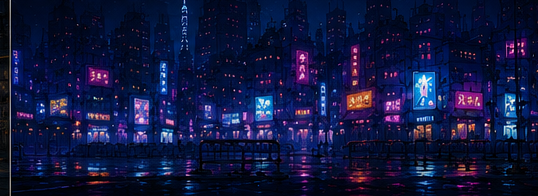
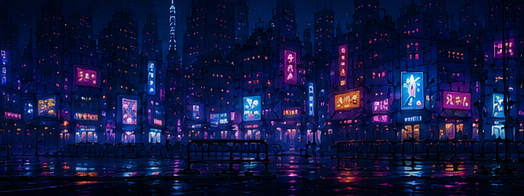
Fix stage2 bleed + clear-screen TITLE, deck links, Eita HP-cost skill
- Re-slice stage2_bg from x488 so stage 1's alley no longer bleeds into
  the left edge of the neon city.
- Stage-clear (won) screen now returns to the title on T / the TITLE
  button, and the banner shows the hint.
- Portrait deck shows the TIMECAFE YouTube channel and creator (X) links
  at the top, clear of the controls to avoid mis-taps.
- Eita's summon skill now costs 2 HP each use (and can't be used if it
  would drop him), since it was too strong; title note + HP feedback.

diff --git a/src/game/PlayScene.ts b/src/game/PlayScene.ts
@@ -163,9 +163,19 @@ export class PlayScene implements Scene {
     }
 
     // Bombs charge for BOMB_WINDUP (player rooted in a pose) before firing.
-    if (input.wasPressed("KeyK") && !this.bombWindup && this.player.consumeBomb()) {
-      this.bombWindup = { bomb: this.player.bomb, t: 0 };
-      this.player.chargeBomb(BOMB_WINDUP);
+    // Some skills (Eita's summon) also cost HP — and can't be used if that
+    // would drop the player, so at least 1 HP always remains.
+    if (input.wasPressed("KeyK") && !this.bombWindup) {
+      const hpCost = this.character.skillHpCost ?? 0;
+      if (this.player.hp > hpCost && this.player.consumeBomb()) {
+        this.bombWindup = { bomb: this.player.bomb, t: 0 };
+        this.player.chargeBomb(BOMB_WINDUP);
+        if (hpCost > 0) {
+          this.player.spendHp(hpCost);
+          this.particles.burst(this.player.center, "#fca5a5", 12, 220, { life: 0.4, size: 3 });
+          sound.playerHit();
+        }
+      }
     }
     if (this.bombWindup) {
       this.bombWindup.t += dt;
@@ -260,6 +270,8 @@ export class PlayScene implements Scene {
             this.characterId,
           ),
         );
+      } else if (input.wasPressed("KeyT")) {
+        game.changeScene(new TitleScene());
       }
       return;
     }
@@ -1149,7 +1161,7 @@ export class PlayScene implements Scene {
     if (this.state === "won") {
       title = "STAGE CLEAR!";
       color = "#4ade80";
-      sub = "次のステージへ: Space";
+      sub = "次へ: Space    T: タイトル";
     } else if (this.state === "complete") {
       title = "GAME COMPLETE!";
       color = "#fbbf24";

diff --git a/src/style.css b/src/style.css
@@ -242,7 +242,36 @@ body.touch.portrait .tc-menu {
   transform: translateX(-50%);
 }
 
-/* Keep the credit link in the gap between screen and deck. */
+/* Channel + creator links live at the TOP of the deck (just under the
+   screen), well clear of the controls at the bottom to avoid mis-taps. */
+.deck-links {
+  display: none;
+}
+body.portrait .deck-links {
+  display: flex;
+  flex-direction: column;
+  align-items: center;
+  gap: 6px;
+  padding-top: 10px;
+}
+body.portrait .deck-links a {
+  color: #93c5fd;
+  font: 12px system-ui, sans-serif;
+  text-decoration: none;
+  background: rgba(2, 6, 23, 0.55);
+  border: 1px solid rgba(148, 163, 184, 0.18);
+  padding: 5px 14px;
+  border-radius: 9px;
+  max-width: 92vw;
+  white-space: nowrap;
+  overflow: hidden;
+  text-overflow: ellipsis;
+}
+body.portrait .deck-links a:active {
+  color: #bfdbfe;
+}
+
+/* The song-MV credit (title only) tucks just below those links. */
 body.portrait #mv-link {
-  bottom: calc(var(--deck-h) + 8px);
+  bottom: calc(var(--deck-h) - 78px);
 }

diff --git a/src/game/characters.ts b/src/game/characters.ts
@@ -41,6 +41,7 @@ export interface Character {
   normal: WeaponSpec; // main attack (button J), infinite
   special: WeaponSpec; // pickup weapon (W box), limited ammo
   bomb: Bomb; // button K
+  skillHpCost?: number; // HP spent each time the skill (bomb) is used
   airJumps?: number; // extra mid-air jumps (e.g. 1 = double jump)
   sprite?: SpriteConfig; // pixel-art sheet; falls back to a coloured box if absent
   bombPoseSprites?: string[]; // standalone poses shown across the bomb wind-up
@@ -91,7 +92,9 @@ export const CHARACTERS: Record<CharacterId, Character> = {
       damage: 3, radius: 6, color: "#0b1020", range: 760, ammo: 3, pierce: true, style: "laser",
     },
     // Summon a demon: a screen-wide dark blast with the summoned-monster art.
+    // Powerful (boss-buster), so it's paid for with HP.
     bomb: { kind: "summon" },
+    skillHpCost: 2,
     // Sliced from charB.png: idle ×4, run ×6, 闇の瘴気 ×4, 闇の炎 ×3.
     sprite: {
       frameW: 200, frameH: 130, fps: 8,

diff --git a/index.html b/index.html
@@ -10,7 +10,12 @@
   </head>
   <body>
     <canvas id="game" width="800" height="600"></canvas>
-    <div class="deck"></div>
+    <div class="deck">
+      <div class="deck-links">
+        <a href="https://www.youtube.com/@timecafe089542" target="_blank" rel="noopener noreferrer">▶ 銀幕一楼とTIMECAFE 公式YouTube</a>
+        <a href="https://x.com/kentamatsunaga" target="_blank" rel="noopener noreferrer">✎ 製作者（X / @kentamatsunaga）</a>
+      </div>
+    </div>
     <script type="module" src="/src/main.ts"></script>
   </body>
 </html>

diff --git a/src/game/TitleScene.ts b/src/game/TitleScene.ts
@@ -12,7 +12,7 @@ const PREV_KEYS = ["ArrowLeft", "KeyA"];
 
 const ABILITIES: Record<CharacterId, string> = {
   A: "Skill: 自分中心の大爆発（炎）",
-  B: "Skill: 召喚＋前方レーザー（ボス特効）",
+  B: "Skill: 召喚＋前方レーザー（ボス特効・HP-2）",
   C: "Skill: HPを2回復",
   D: "Skill: 3秒 時間停止（敵弾も停止）",
   E: "Skill: ハンマー叩きつけ（接地敵に大ダメージ）",

diff --git a/src/game/Player.ts b/src/game/Player.ts
@@ -329,6 +329,11 @@ export class Player {
     return true;
   }
 
+  /** Spend HP as a skill cost (no invulnerability — a deliberate self-cost). */
+  spendHp(amount: number): void {
+    this.hp = Math.max(0, this.hp - amount);
+  }
+
   /** Mark the player as knocked out — drawn lying on the ground during the
    *  brief death pause before respawning. */
   down(): void {
